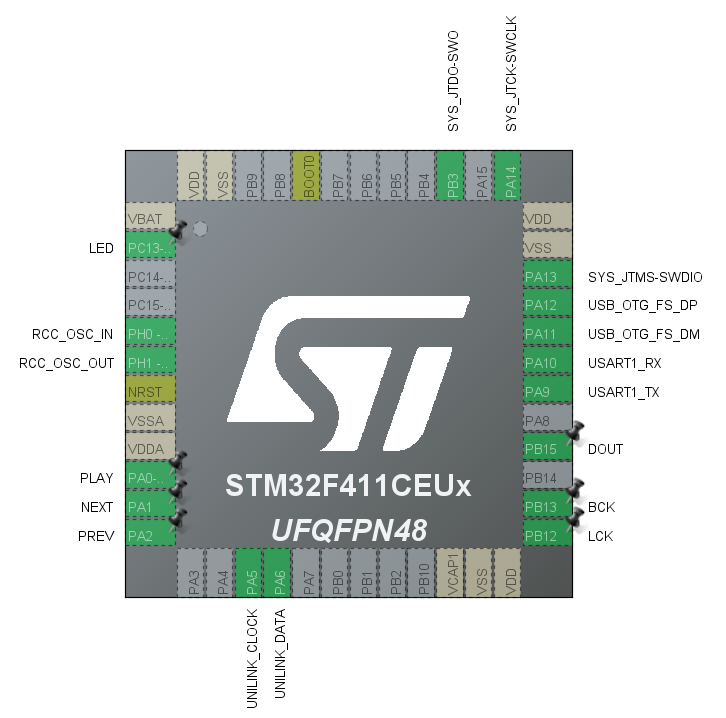
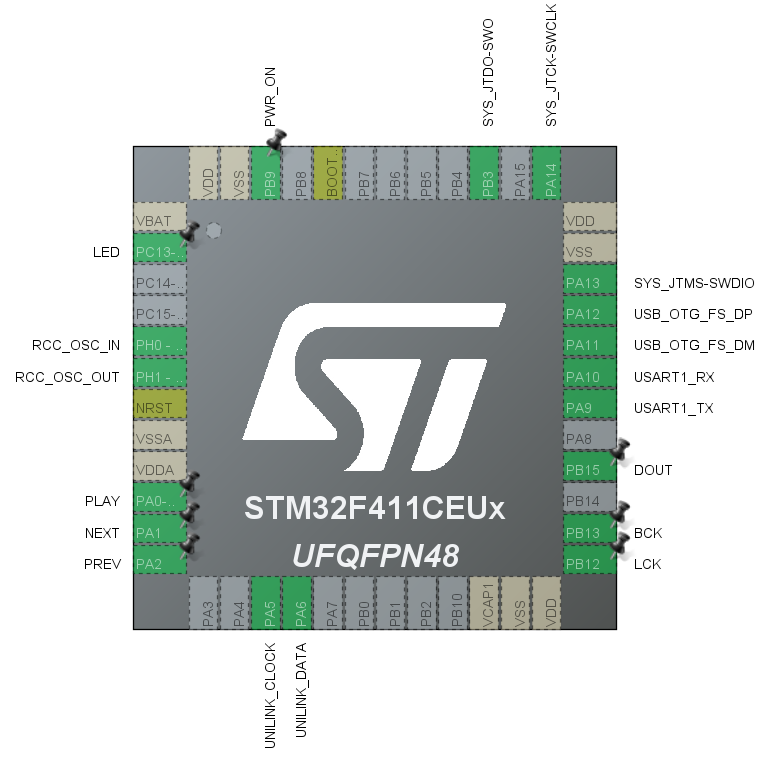
Update stm32 pinout

Changed region(s): [[0.0, 0.0, 0.9697, 1.0], [0.303, 0.3983, 0.6667, 0.6128]]

diff --git a/readme.md b/readme.md
@@ -51,10 +51,17 @@ Check "unilink.h" and "unilink.c".
 <a id="debugging"></a>
 ## Debugging
 
-The firmware has different levels of debugging the Unilink data, see `unilink_log.h`.<br>
-  - "Unilink_Log_Enable" will display the unilink frames in a readable format. It has two additional modifiers:
+The firmware has different levels of debugging the Unilink data, see `config.h`.<br>
+
+  - `SWO_PRINT`, `UART_PRINT` and `USB_LOG` switches will enable each logging output.<br>
+    - `UART_PRINT` Enables serial port logging to PA9 pin, 1Mbit baudrate.
+    - `SWO_PRINT` Enables SWO pin logging. Connect the ST-Link to the STM32 (SWC=PA14 SWD=PA13 SWO=PB3), open Printf SWO viever in ST-Link utility, set core clock to 96000000Hz.
+    - `USB_LOG` Enables USB logging, creating a file `log.txt`.
+
+
+Additionally, the log can be written into a file `log.txt` in the USB drive.<br>
   - "Unilink_Log_Detailed" will split the data frames within brackets, so the data and checksums can be read easier.
-  - "Unilink_Passive_Mode" will disable the slave interface and set the device in sniffer mode.<br>
+  - "PASSIVE_MODE" will disable the slave interface and set the device in sniffer mode.<br>
   In this mode it can output the dialog between the ICS and the CD changer.
   
  Example log outputs:<br>
@@ -81,10 +88,6 @@ It uses VBA to parse the data, so you need to enable macros. The function is cal
     01 MASTER REQUEST - ANYONE?      18 10 01 02 2B 00
     8C DEVICE INFO                   10 30 8C 11 DD 14 A8 17 60 10 00
 
-
-The debugging data is sent using the serial port, and also through the SWO pin.<br>
-You can read the SWO data at any time by connecting a ST-Link to the STM32, then open Printf SWO viever in ST-Link utility.<br>
-Set Core clock to 96MHz (96000000).<br>
  
 <a id="connections"></a>
 ## Connections
@@ -99,7 +102,8 @@ The ICS connection is as follows:<br>
     - Right input: `C3-20`
     
   - Unilink interface:
-    - Power: `C2-8`, outputs 12V when switched on. You'll need a 5V voltage regulator for the STM32.
+    - Power: `C2-8`, permanent 12V. You'll need a 5V voltage regulator for the STM32 board.
+    - ON: `C2-7`, pulses to wake up the slave. This needs to be connected to a mosfet so powers our device on. (TODO: Complete this.)
     - Ground: `C2-9`, it's  missing in the picture but fully correct. Don't use this ground for audio.
     - Data: `C2-10`, connect to STM32 PA6.
     - Clk: `C2-11`, connect to STM32 PA5.
